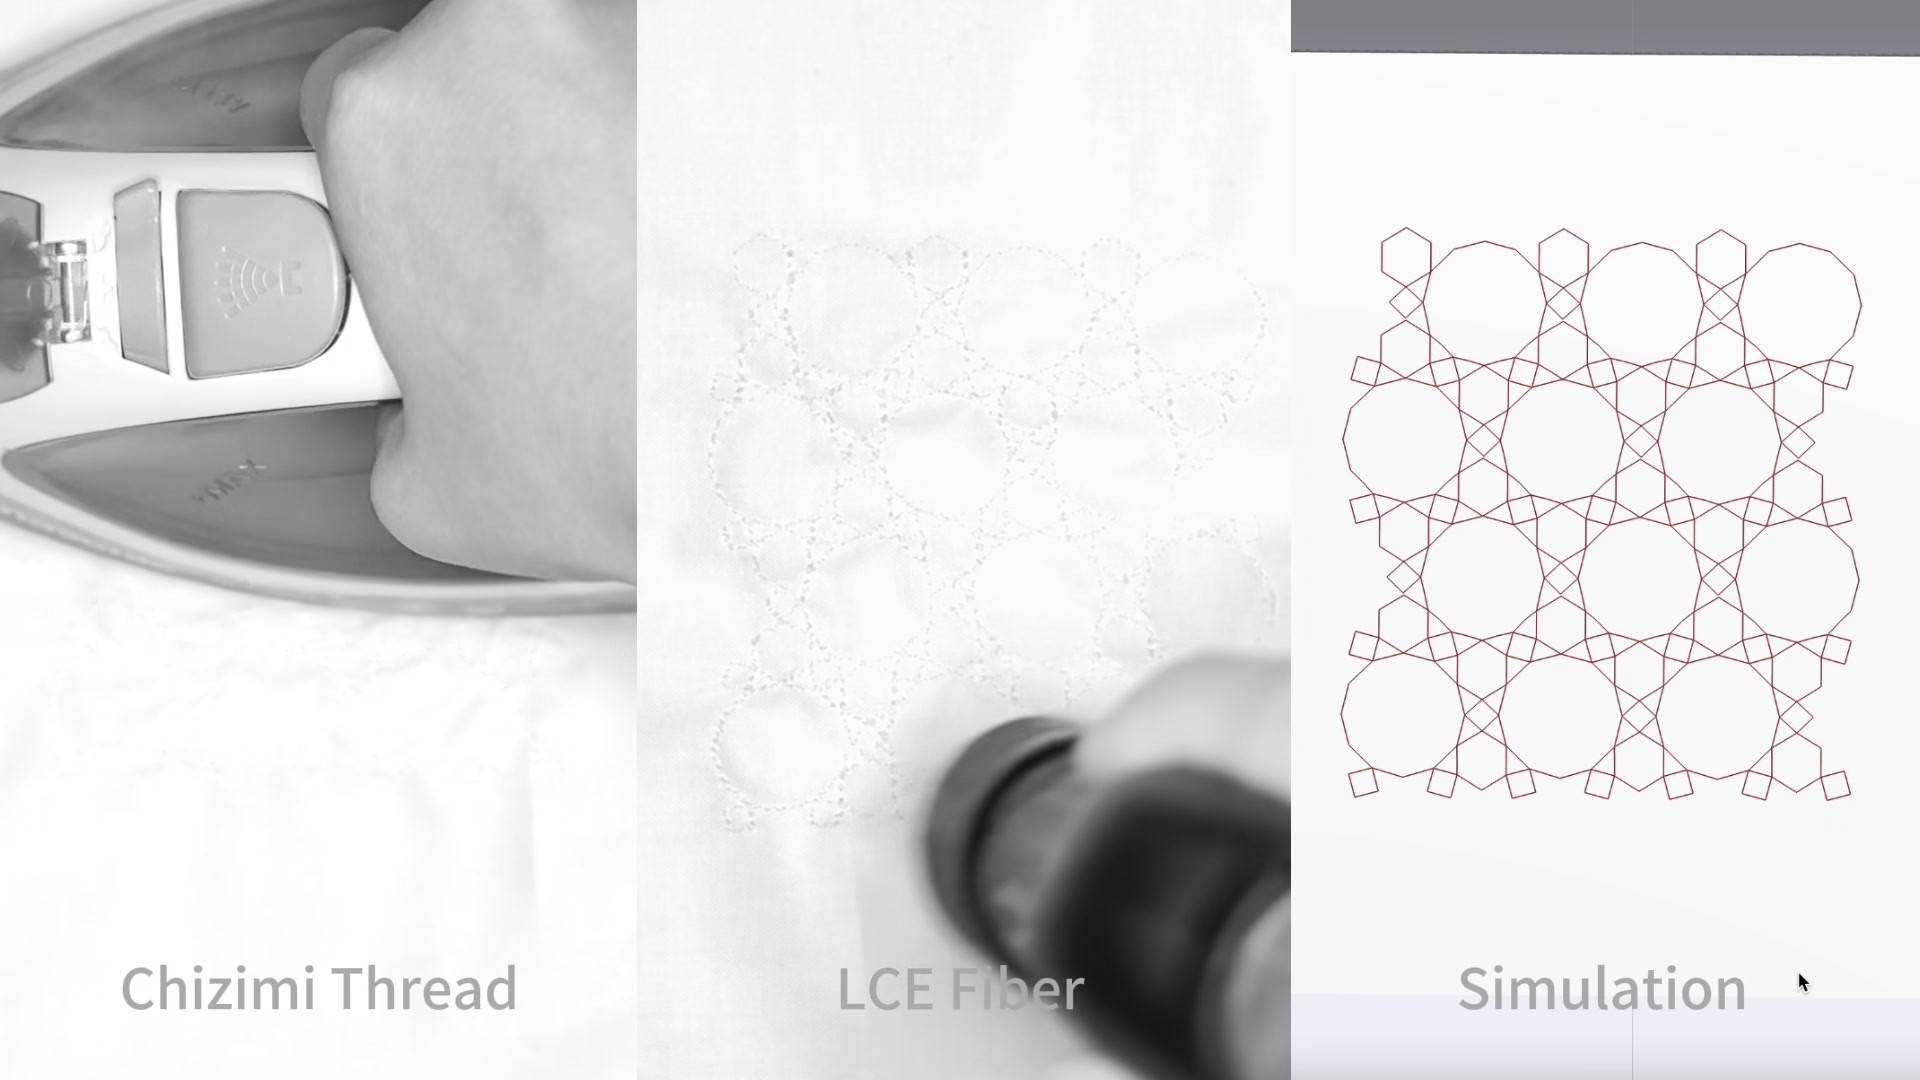
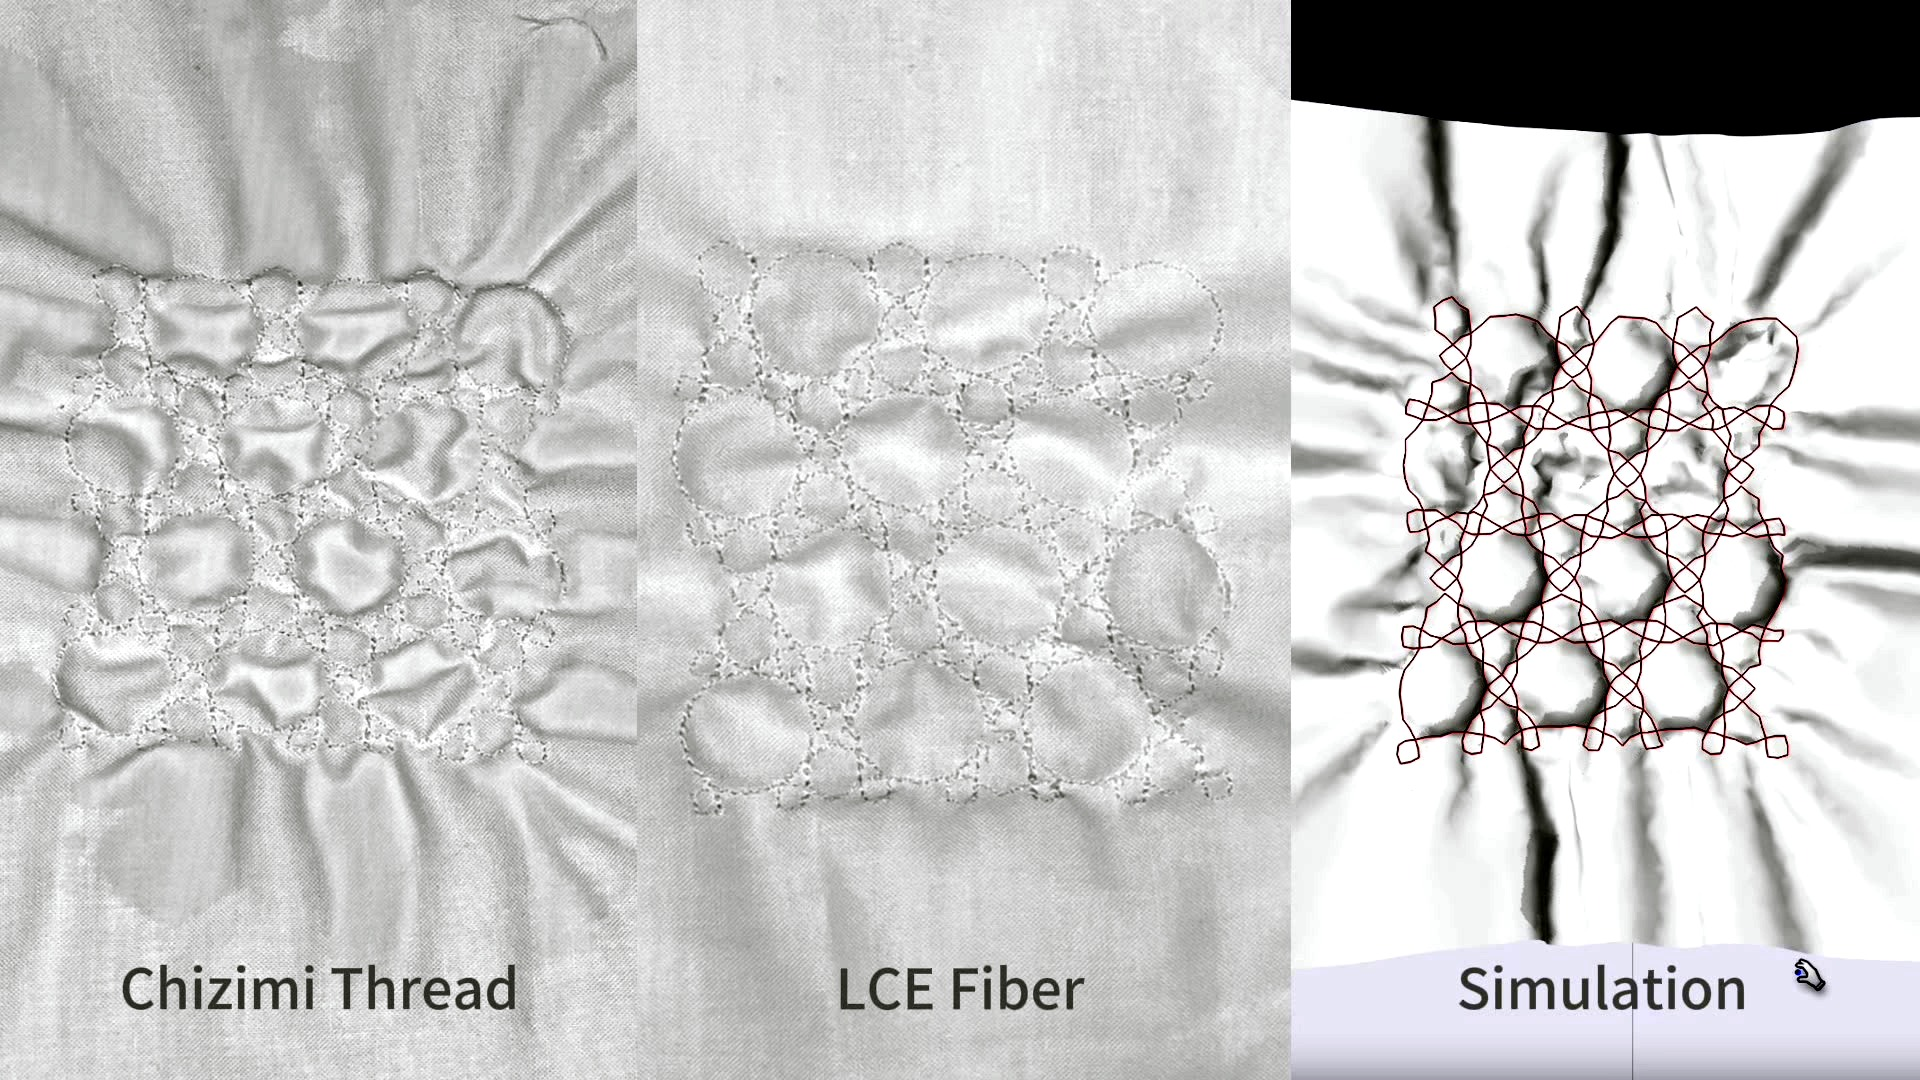
Update EEG embroidery page and mp2-compare image

diff --git a/projects/eeg-embroidery.html b/projects/eeg-embroidery.html
@@ -60,9 +60,11 @@
         <p class="cs-summary">A sewing machine you steer with your head and your attention. A BrainCo EEG headband tracks the wearer’s head movement and attention level; head movement drives a two-axis plotter that moves the fabric hoop under a Brother embroidery machine, and attention sets the stitching speed. The person and the machine end up co-steering the same line of thread. It was our team’s final project for MAS.S60 Critical Matter: Emotive Design from Fashion to Urban Scale, and it grew out of two mini projects earlier in the semester: one that turned brainwaves into crochet patterns, and one that gave embroidered geometry a physical behavior.</p>
       </header>
 
-      <div class="media cs-hero">
-        <img src="../assets/img/projects/eeg-hero.jpg" alt="Maggie wearing a BrainCo EEG headband, seated in front of a Brother embroidery machine and a monitor showing the digital trace of the stitch path" style="object-position:center 40%">
-      </div>
+      <figure class="figure figure--pair" style="margin-top:40px">
+        <div class="media" style="aspect-ratio:3/4"><img src="../assets/img/projects/eeg-plotter-aerial.jpg" alt="Aerial view of the two-axis plotter carrying the embroidery hoop under the Brother machine, with a stitched maze visible on the fabric"></div>
+        <div class="media" style="aspect-ratio:3/4"><img src="../assets/img/projects/eeg-twin.jpg" alt="The digital twin on a dark screen: a thin line tracing a maze-like path, with a dot marking the current position of the needle"></div>
+        <figcaption>Left: the plotter moving the hoop under the needle, seen from above. Right: the digital twin recording the same path.</figcaption>
+      </figure>
 
       <dl class="glance">
         <div><dt class="label">My role</dt><dd><span class="todo">What you owned on the team, e.g. the plotter and hoop mount, the EEG-to-motion mapping, the embroidery tests, the video</span></dd></div>
@@ -109,7 +111,7 @@
         </div>
         <figure class="figure" style="margin-top:28px">
           <div class="media" style="aspect-ratio:16/9"><img src="../assets/img/projects/eeg-mp2-compare.jpg" alt="Three side-by-side panels labeled Chizimi Thread, LCE Fiber, and Simulation, showing a stitched lattice pattern being heated and its simulated counterpart" loading="lazy"></div>
-          <figcaption>Mini Project 2: the same lattice stitched in Chizimi thread and LCE fiber, with the digital simulation alongside.</figcaption>
+          <figcaption>Mini Project 2, after heating: the same lattice stitched in Chizimi thread and LCE fiber, with the digital simulation alongside.</figcaption>
         </figure>
         <figure class="figure figure--pair">
           <div class="media" style="aspect-ratio:3/4"><img src="../assets/img/projects/eeg-mp2-heat.jpg" alt="Thermal camera view of a heat gun warming an embroidered square of fabric, reading 33.2 degrees" loading="lazy"></div>
@@ -161,10 +163,9 @@
             <p>The final presentation framed the semester as a move from observation to negotiation: the mirror of Mini Project 1, the controllable material of Mini Project 2, and finally a partner. The claim we ended on was that when EEG starts pulling the fabric, authorship becomes shared.</p>
           </li>
         </ol>
-        <figure class="figure figure--pair">
-          <div class="media" style="aspect-ratio:3/4"><img src="../assets/img/projects/eeg-plotter-aerial.jpg" alt="Aerial view of the two-axis plotter carrying the embroidery hoop under the Brother machine, with a stitched maze visible on the fabric" loading="lazy"></div>
-          <div class="media" style="aspect-ratio:3/4"><img src="../assets/img/projects/eeg-twin.jpg" alt="The digital twin on a dark screen: a thin line tracing a maze-like path, with a dot marking the current position of the needle" loading="lazy"></div>
-          <figcaption>Left: the plotter moving the hoop under the needle, seen from above. Right: the digital twin recording the same path.</figcaption>
+        <figure class="figure" style="margin-top:28px">
+          <div class="media" style="aspect-ratio:16/9"><img src="../assets/img/projects/eeg-hero.jpg" alt="Maggie wearing a BrainCo EEG headband, seated in front of a Brother embroidery machine and a monitor showing the digital trace of the stitch path" loading="lazy" style="object-position:center 40%"></div>
+          <figcaption>Wearing the headband at the machine, with the digital twin on the monitor.</figcaption>
         </figure>
       </section>
 
